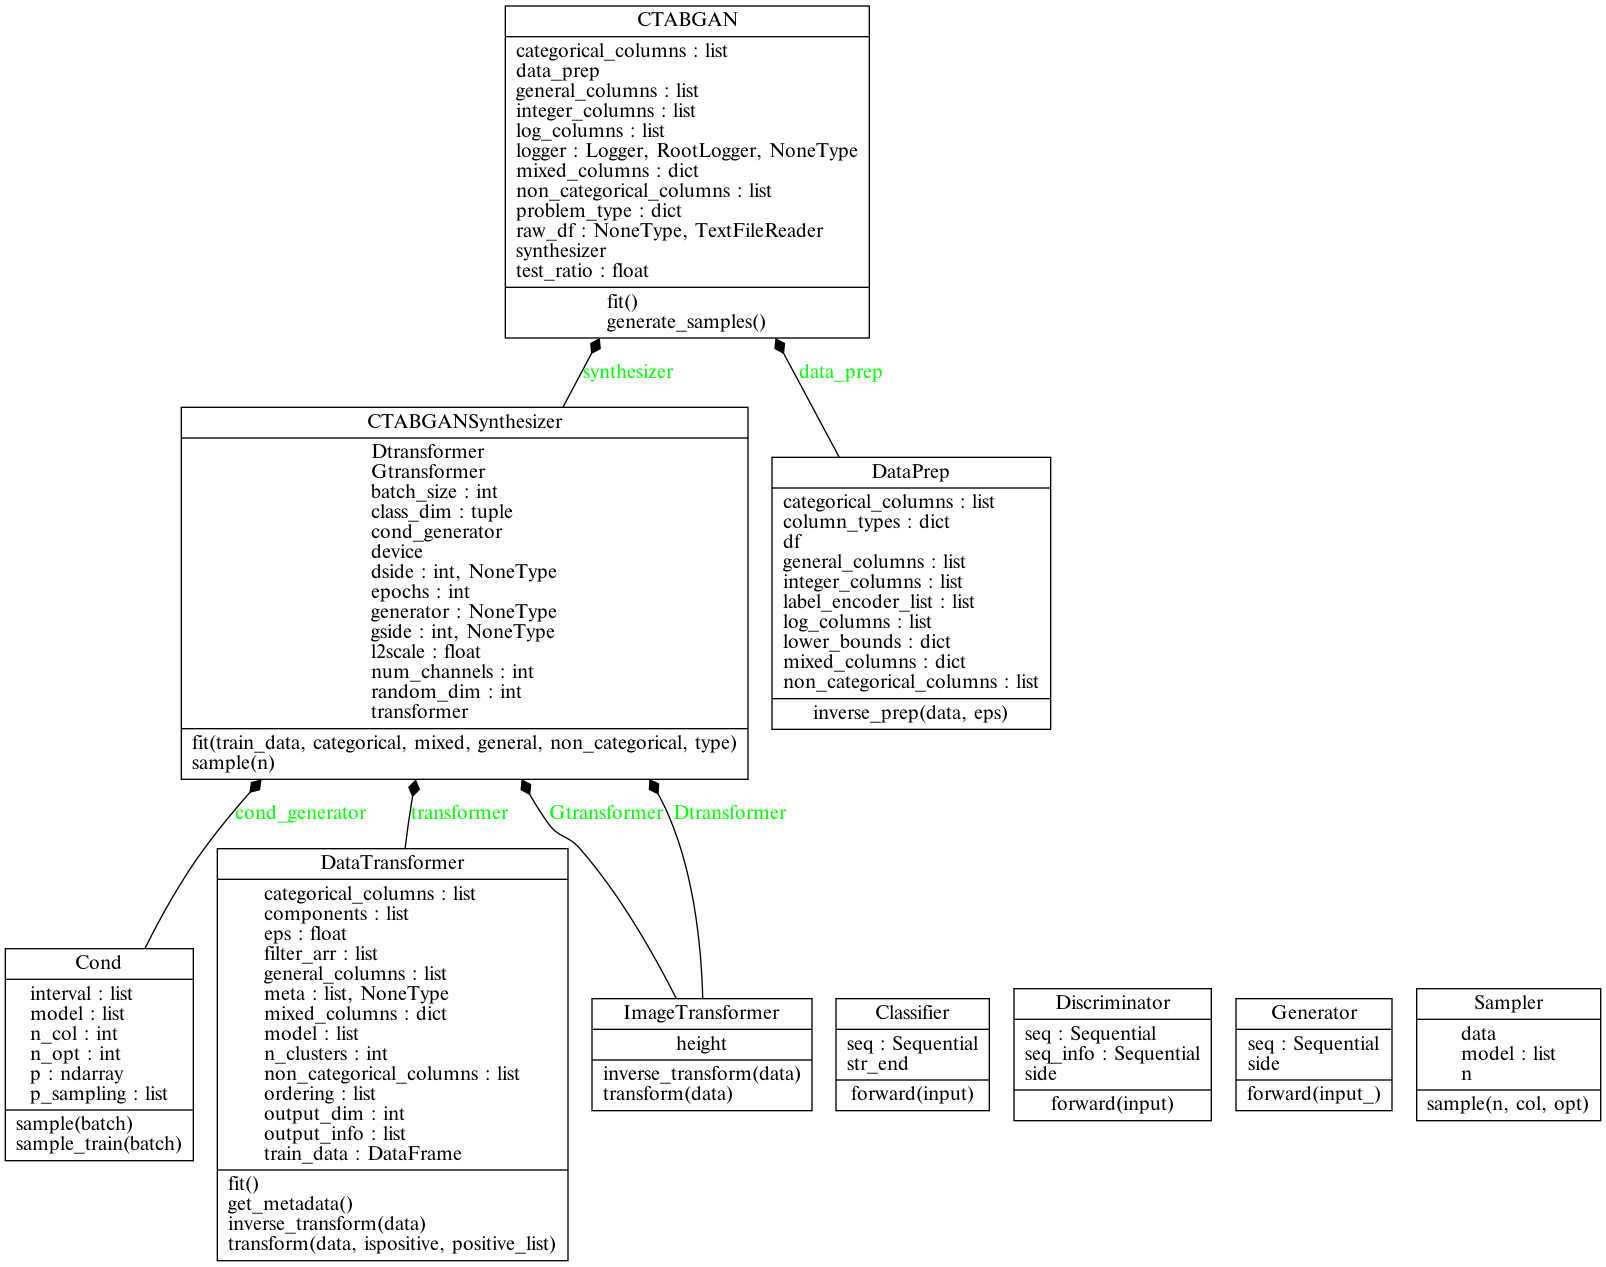
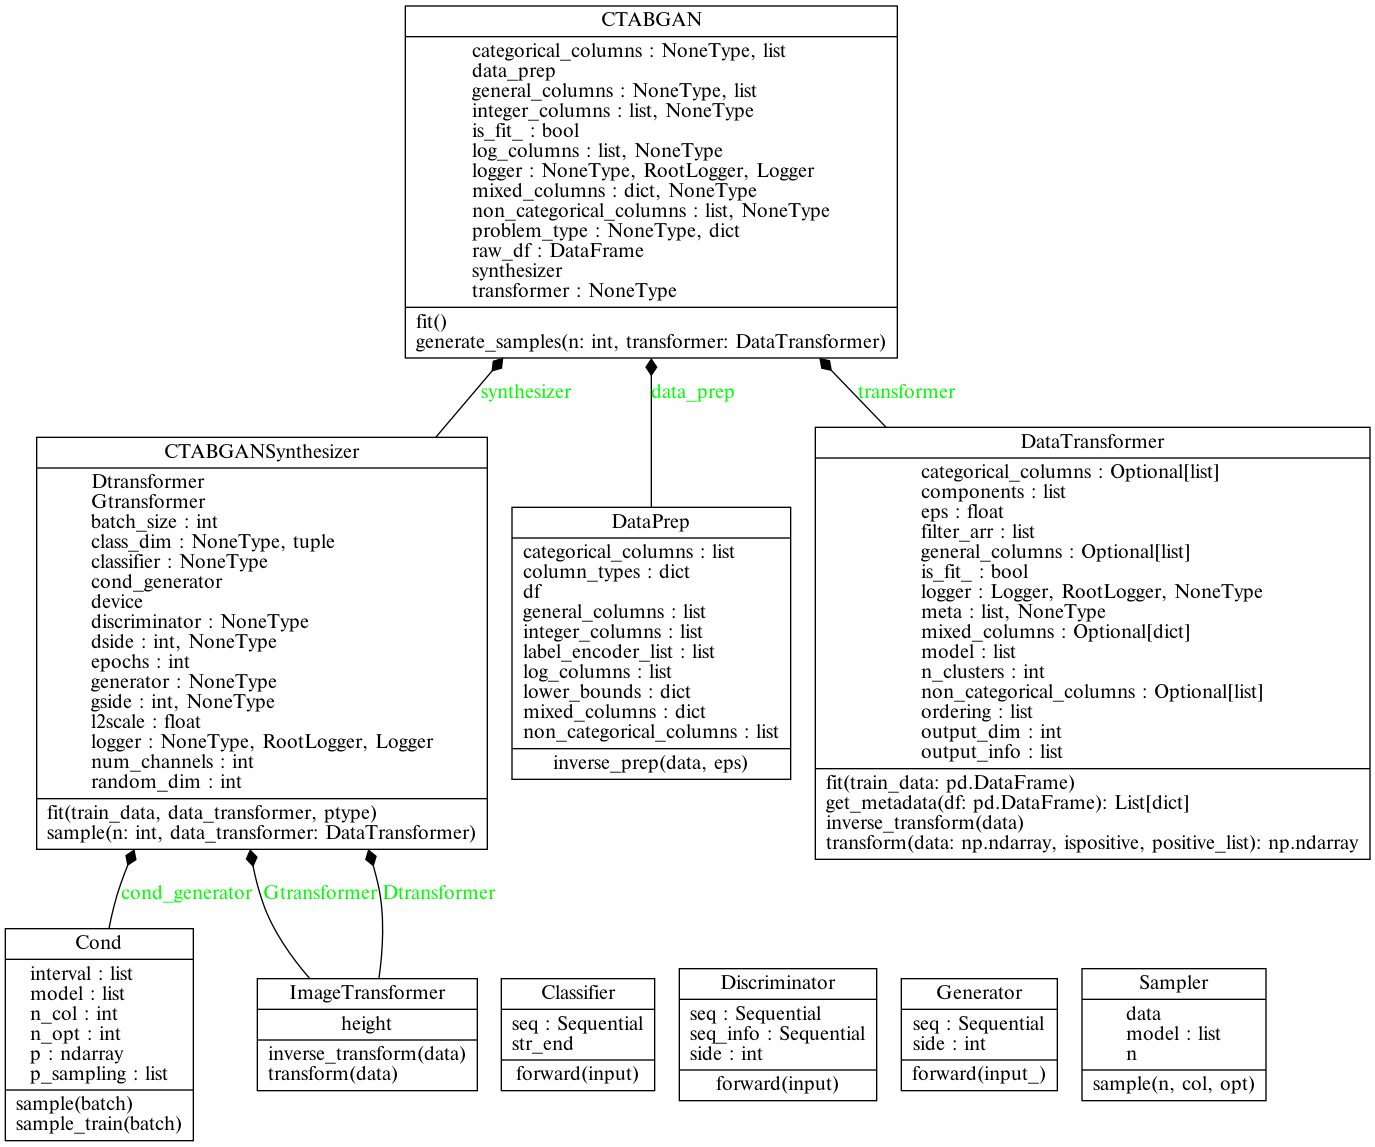
Change: data transformer 최상위로 올리기, data transformer 내에 train data 저장하는 부분 제거

diff --git a/model/synthesizer/ctabgan_synthesizer.py b/model/synthesizer/ctabgan_synthesizer.py
@@ -30,7 +30,7 @@ from typing import List, Tuple
 
 class Classifier(Module):
     """auxiliary classifier
-    1 hidden layer MLP
+    Simple MLP
     """
 
     def __init__(self, input_dim, dis_dims, tcol_idx_st_ed_tuple):
@@ -158,6 +158,7 @@ def maximum_interval(output_info):
 
 class Cond(object):
     def __init__(self, data, output_info):
+        """conditional vector 생성기"""
         self.model = []
         st = 0
         counter = 0
@@ -254,6 +255,9 @@ def cond_loss(data, output_info, c, m):
 
 class Sampler(object):
     def __init__(self, data, output_info):
+        """Training by sampling 기법을 수행키 위한 샘플러
+        학습 중 원본 데이터 샘플링을 위해 사용됨
+        """
         super(Sampler, self).__init__()
         self.data = data
         self.model = []
@@ -486,10 +490,7 @@ class CTABGANSynthesizer:
     def fit(
         self,
         train_data=pd.DataFrame,
-        categorical=[],
-        mixed={},
-        general=[],
-        non_categorical=[],
+        data_transformer=DataTransformer,
         ptype={},
     ):
         # auxiliary classifier 타겟 컬럼 셋팅
@@ -503,25 +504,14 @@ class CTABGANSynthesizer:
             )  # data_prep 에서 target_col 맨 마지막으로 밀었음
 
         # lsw: 실제 데이터 전처리(인코딩)하는 부분
-        self.logger.info("[CTAB-SYN]: fit data transformer start")
-        self.transformer = DataTransformer(
-            train_data=train_data,
-            categorical_list=categorical,
-            mixed_dict=mixed,
-            general_list=general,
-            non_categorical_list=non_categorical,
-        )
-        self.transformer.fit()
-        self.logger.info("[CTAB-SYN]: fit data transformer end")
-        self.logger.info("[CTAB-SYN]: now transform data start")
-        train_data = self.transformer.transform(train_data.values)
+        train_data = data_transformer.transform(train_data.values)
         self.logger.info("[CTAB-SYN]: now transform data end")
 
         # 데이터 샘플링 객체
-        data_sampler = Sampler(train_data, self.transformer.output_info)
-        data_dim = self.transformer.output_dim  # 전처리 완료된 데이터 차원 수
+        data_sampler = Sampler(train_data, data_transformer.output_info)
+        data_dim = data_transformer.output_dim  # 전처리 완료된 데이터 차원 수
         # 컨디션 벡터 생성기
-        self.cond_generator = Cond(train_data, self.transformer.output_info)
+        self.cond_generator = Cond(train_data, data_transformer.output_info)
 
         # 컬럼 수 많아지는 경우 여기 늘려야함
         # n_opt: 가용 conditioning 컬럼 개수
@@ -560,7 +550,7 @@ class CTABGANSynthesizer:
         optimizerC = None
         if target_index is not None:
             tcol_idx_st_ed_tuple = get_tcol_idx_st_ed_tuple(
-                target_index, self.transformer.output_info
+                target_index, data_transformer.output_info
             )
             self.classifier = Classifier(
                 data_dim, self.class_dim, tcol_idx_st_ed_tuple
@@ -615,7 +605,7 @@ class CTABGANSynthesizer:
 
                     fake = self.generator(noisez)
                     faket = self.Gtransformer.inverse_transform(fake)
-                    fakeact = apply_activate(faket, self.transformer.output_info)
+                    fakeact = apply_activate(faket, data_transformer.output_info)
 
                     fake_cat = torch.cat([fakeact, c], dim=1)
                     real_cat = torch.cat([real, c_perm], dim=1)
@@ -667,7 +657,7 @@ class CTABGANSynthesizer:
 
                 fake = self.generator(noisez)
                 faket = self.Gtransformer.inverse_transform(fake)
-                fakeact = apply_activate(faket, self.transformer.output_info)
+                fakeact = apply_activate(faket, data_transformer.output_info)
 
                 fake_cat = torch.cat([fakeact, c], dim=1)
                 fake_cat = self.Dtransformer.transform(fake_cat)
@@ -675,7 +665,7 @@ class CTABGANSynthesizer:
                 y_fake, info_fake = self.discriminator(fake_cat)
 
                 # l_gen
-                cross_entropy = cond_loss(faket, self.transformer.output_info, c, m)
+                cross_entropy = cond_loss(faket, data_transformer.output_info, c, m)
 
                 _, info_real = self.discriminator(real_cat_d)
 
@@ -703,7 +693,7 @@ class CTABGANSynthesizer:
                     # lsw: 그냥 위의 fake 그대로 쓰면 안됨? 왜 다시 게산하지?
                     fake = self.generator(noisez)
                     faket = self.Gtransformer.inverse_transform(fake)
-                    fakeact = apply_activate(faket, self.transformer.output_info)
+                    fakeact = apply_activate(faket, data_transformer.output_info)
 
                     real_pre, real_label = self.classifier(real)
                     fake_pre, fake_label = self.classifier(fakeact)
@@ -739,10 +729,10 @@ class CTABGANSynthesizer:
 
             epoch += 1
 
-    def sample(self, n):
+    def sample(self, n: int, data_transformer: DataTransformer):
         self.generator.eval()
 
-        output_info = self.transformer.output_info
+        output_info = data_transformer.output_info
         steps = n // self.batch_size + 1
 
         data = []
@@ -763,7 +753,7 @@ class CTABGANSynthesizer:
             data.append(fakeact.detach().cpu().numpy())
 
         data = np.concatenate(data, axis=0)
-        result, resample = self.transformer.inverse_transform(data)
+        result, resample = data_transformer.inverse_transform(data)
 
         # 원하는 n 개 데이터가 다 만들어지지 않은 경우 (invalid id 존재)
         while len(result) < n:
@@ -789,7 +779,7 @@ class CTABGANSynthesizer:
 
             data_resample = np.concatenate(data_resample, axis=0)
 
-            res, resample = self.transformer.inverse_transform(data_resample)
+            res, resample = data_transformer.inverse_transform(data_resample)
             result = np.concatenate([result, res], axis=0)
 
         return result[0:n]

diff --git a/model/ctabgan.py b/model/ctabgan.py
@@ -6,6 +6,7 @@ import pandas as pd
 import time
 from model.pipeline.data_preparation import DataPrep
 from model.synthesizer.ctabgan_synthesizer import CTABGANSynthesizer
+from model.synthesizer.transformer import DataTransformer
 
 import warnings
 import logging
@@ -26,6 +27,7 @@ class CTABGAN:
         integer_columns: list = None,
         problem_type: dict = None,  # {"Classification": "income"} 포맷으로 입력
         params_ctabgan: dict = None,  # CTABGANSynthesizer 에 적용할 파라메터 딕셔너리
+        transformer: DataTransformer = None,
     ):
         self.__name__ = "CTABGAN"
         # set initial params
@@ -50,6 +52,7 @@ class CTABGAN:
         self.logger = logging.getLogger()
 
         self.synthesizer = CTABGANSynthesizer(**params_ctabgan)
+        self.transformer = transformer
         self.raw_df = raw_df
         self.categorical_columns = categorical_columns
         self.log_columns = log_columns
@@ -59,10 +62,16 @@ class CTABGAN:
         self.integer_columns = integer_columns
         self.problem_type = problem_type
 
+        self.is_fit_ = False
+
     def fit(self):
         start_time = time.time()
         self.logger.info("[CTABGAN]: build data preprocessor start")
-        # DataPrep: 데이터 전처리
+        # DataPrep: 데이터 전처리 (오래 걸리는 작업은 아님)
+        #   - missing value 처리
+        #   - mixed column modal 값 처리
+        #   - log 변환
+        #   - label encoding
         self.data_prep = DataPrep(
             self.raw_df,
             self.categorical_columns,
@@ -74,23 +83,47 @@ class CTABGAN:
             self.problem_type,
         )
         self.logger.info("[CTABGAN]: build data preprocessor end")
+
+        # set data transformer
+        if self.transformer is None or not self.transformer.is_fit_:
+            self.logger.info("[CTABGAN]: fit data transformer start")
+            self.transformer = DataTransformer(
+                categorical_list=self.data_prep.column_types["categorical"],
+                mixed_dict=self.data_prep.column_types["mixed"],
+                general_list=self.data_prep.column_types["general"],
+                non_categorical_list=self.data_prep.column_types["non_categorical"],
+            )
+            self.transformer.fit(train_data=self.data_prep.df)
+            self.logger.info("[CTABGAN]: fit data transformer end")
+            self.logger.info("[CTABGAN]: now transform data start")
+        else:
+            self.logger.info("[CTABGAN]: use already fitted transformer")
+
         self.logger.info("[CTABGAN]: fit synthesizer start")
         # print(self.data_prep.df)
         # print(self.data_prep.column_types)
         self.synthesizer.fit(
             train_data=self.data_prep.df,
-            categorical=self.data_prep.column_types["categorical"],
-            mixed=self.data_prep.column_types["mixed"],
-            general=self.data_prep.column_types["general"],
-            non_categorical=self.data_prep.column_types["non_categorical"],
+            data_transformer=self.transformer,
             ptype=self.problem_type,
         )
         self.logger.info("[CTABGAN]: fit synthesizer end")
         end_time = time.time()
         self.logger.info(f"Finished training in {end_time - start_time} seconds.")
+        self.is_fit_ = True
 
-    def generate_samples(self):
-        sample = self.synthesizer.sample(len(self.raw_df))
+    def generate_samples(self, n: int = None, transformer: DataTransformer = None):
+        assert self.is_fit_, "must fit the model first!!"
+
+        if isinstance(transformer, DataTransformer):
+            assert transformer.is_fit_, "you must use fitted data_transformer!!"
+            _transformer = transformer
+        else:
+            self.transformer
+
+        if n is None:
+            n = len(self.raw_df)
+        sample = self.synthesizer.sample(n, _transformer)
         sample_df = self.data_prep.inverse_prep(sample)
 
         return sample_df

diff --git a/model/synthesizer/transformer.py b/model/synthesizer/transformer.py
@@ -13,7 +13,6 @@ RANDOM_SEED = 777
 class DataTransformer:
     def __init__(
         self,
-        train_data: pd.DataFrame,
         categorical_list: list = None,
         mixed_dict: dict = None,
         general_list: list = None,
@@ -35,17 +34,17 @@ class DataTransformer:
         self.meta = None
         self.n_clusters = n_clusters
         self.eps = eps
-        self.train_data = train_data
         self.categorical_columns = categorical_list
         self.mixed_columns = mixed_dict
         self.general_columns = general_list
         self.non_categorical_columns = non_categorical_list
+        self.is_fit_ = False
 
-    def get_metadata(self) -> List[dict]:
+    def get_metadata(self, df: pd.DataFrame) -> List[dict]:
         meta = []
         self.logger.info("[Transformer]: get metadata ...")
-        for index in tqdm(range(self.train_data.shape[1])):
-            column = self.train_data.iloc[:, index]
+        for index in tqdm(range(df.shape[1])):
+            column = df.iloc[:, index]
             # 범주형 컬럼
             if index in self.categorical_columns:
                 # 범주형 컬럼 중 연속형처럼 GT, MSN 적용할 컬럼
@@ -93,10 +92,10 @@ class DataTransformer:
 
         return meta
 
-    def fit(self):
+    def fit(self, train_data: pd.DataFrame):
         """VGM(MSN) 모델 피팅"""
-        data = self.train_data.values
-        self.meta = self.get_metadata()
+        data = train_data.values
+        self.meta = self.get_metadata(train_data)
         model = []  # VGM Model 저장 영역
         self.ordering = []  #
         self.output_info = []  # 데이터 인코딩 후 출력 정보 List[tuple]
@@ -106,7 +105,7 @@ class DataTransformer:
 
         self.logger.info("[Transformer]: fitting start ...")
         for id_, info in enumerate(tqdm(self.meta)):
-            train_columns = self.train_data.columns
+            train_columns = train_data.columns
             colname = train_columns[id_]
             if info["type"] == "continuous":
                 # num. type & single Gaussian 이 아닌 경우: MSN (VGM)
@@ -236,6 +235,7 @@ class DataTransformer:
                 self.output_info += [(info["size"], "softmax", colname)]  # for gamma_i
                 self.output_dim += info["size"]
         self.model = model  # VGM Model 저장 영역
+        self.is_fit_ = True
         self.logger.info("[Transformer]: fitting end ...")
 
     def transform(

diff --git a/model/eval/evaluation.py b/model/eval/evaluation.py
@@ -14,18 +14,20 @@ import warnings
 
 warnings.filterwarnings("ignore")
 
+RANDOM_SEED = 777
+
 
 def supervised_model_training(x_train, y_train, x_test, y_test, model_name):
     if model_name == "lr":
-        model = LogisticRegression(random_state=42, max_iter=500)
+        model = LogisticRegression(random_state=RANDOM_SEED, max_iter=500)
     elif model_name == "svm":
-        model = svm.SVC(random_state=42, probability=True)
+        model = svm.SVC(random_state=RANDOM_SEED, probability=True)
     elif model_name == "dt":
-        model = tree.DecisionTreeClassifier(random_state=42)
+        model = tree.DecisionTreeClassifier(random_state=RANDOM_SEED)
     elif model_name == "rf":
-        model = RandomForestClassifier(random_state=42)
+        model = RandomForestClassifier(random_state=RANDOM_SEED)
     elif model_name == "mlp":
-        model = MLPClassifier(random_state=42, max_iter=100)
+        model = MLPClassifier(random_state=RANDOM_SEED, max_iter=100)
 
     model.fit(x_train, y_train)
     pred = model.predict(x_test)
@@ -71,7 +73,7 @@ def get_utility_metrics(
         data_real_y,
         test_size=test_ratio,
         stratify=data_real_y,
-        random_state=42,
+        random_state=RANDOM_SEED,
     )
 
     if scaler == "MinMax":
@@ -105,7 +107,7 @@ def get_utility_metrics(
             data_fake_y,
             test_size=test_ratio,
             stratify=data_fake_y,
-            random_state=42,
+            random_state=RANDOM_SEED,
         )
 
         if scaler == "MinMax":
@@ -206,10 +208,10 @@ def privacy_metrics(real_path, fake_path, data_percent=15):
     fake = pd.read_csv(fake_path).drop_duplicates(keep=False)
 
     real_refined = real.sample(
-        n=int(len(real) * (0.01 * data_percent)), random_state=42
+        n=int(len(real) * (0.01 * data_percent)), random_state=RANDOM_SEED
     ).to_numpy()
     fake_refined = fake.sample(
-        n=int(len(fake) * (0.01 * data_percent)), random_state=42
+        n=int(len(fake) * (0.01 * data_percent)), random_state=RANDOM_SEED
     ).to_numpy()
 
     scalerR = StandardScaler()

diff --git a/model/pipeline/data_preparation.py b/model/pipeline/data_preparation.py
@@ -42,7 +42,7 @@ class DataPrep(object):
             X_real = raw_df.drop(columns=[target_col])
             # lsw: 이거 왜 필요????
             # X_train_real, _, y_train_real, _ = model_selection.train_test_split(
-            #     X_real, y_real, test_size=test_ratio, stratify=y_real, random_state=42
+            #     X_real, y_real, test_size=test_ratio, stratify=y_real, random_state=777
             # )
             # X_train_real[target_col] = y_train_real
             # self.df = X_train_real

diff --git a/memo.md b/memo.md
@@ -1,3 +1,11 @@
+class diagram 뽑는법
+```
+// pyreverse -o "확장자명" "폴더 혹은 경로명"
+pyreverse -o png model 
+
+// 단 모듈 내에 __init__.py  필요
+```
+
 - 주석이 너무 없다
 - 프로세스별 로그도 너무 없다
 - 코드 병렬체리 최적화 필요
@@ -12,7 +20,10 @@
 - gan params 설정 (epochs, ...) 밖으로 빼기 [x]
 - 판다스 로드 데이터 자동 컬럼 타입 재고해보기
 - csv 대신 parquet 사용 고려, FILE IO 시간 단축 고려
-- VGM 모델 피클링 해서 외부 저장 고려
+- VGM 모델 피클링 해서 외부 저장 고려 [...]
+  - data transformer 최상위로 올리기 [x]
+  - data transformer 내에 train data 저장하는 부분 제거 [x]
+  - 모델 저장/로드 구현
 - transformer.transform 싱글 스레드로 되는데 컬럼 유닛모델별로 병렬처리
 - generator, discriminator side 자유롭도록 변경 [x]
 
